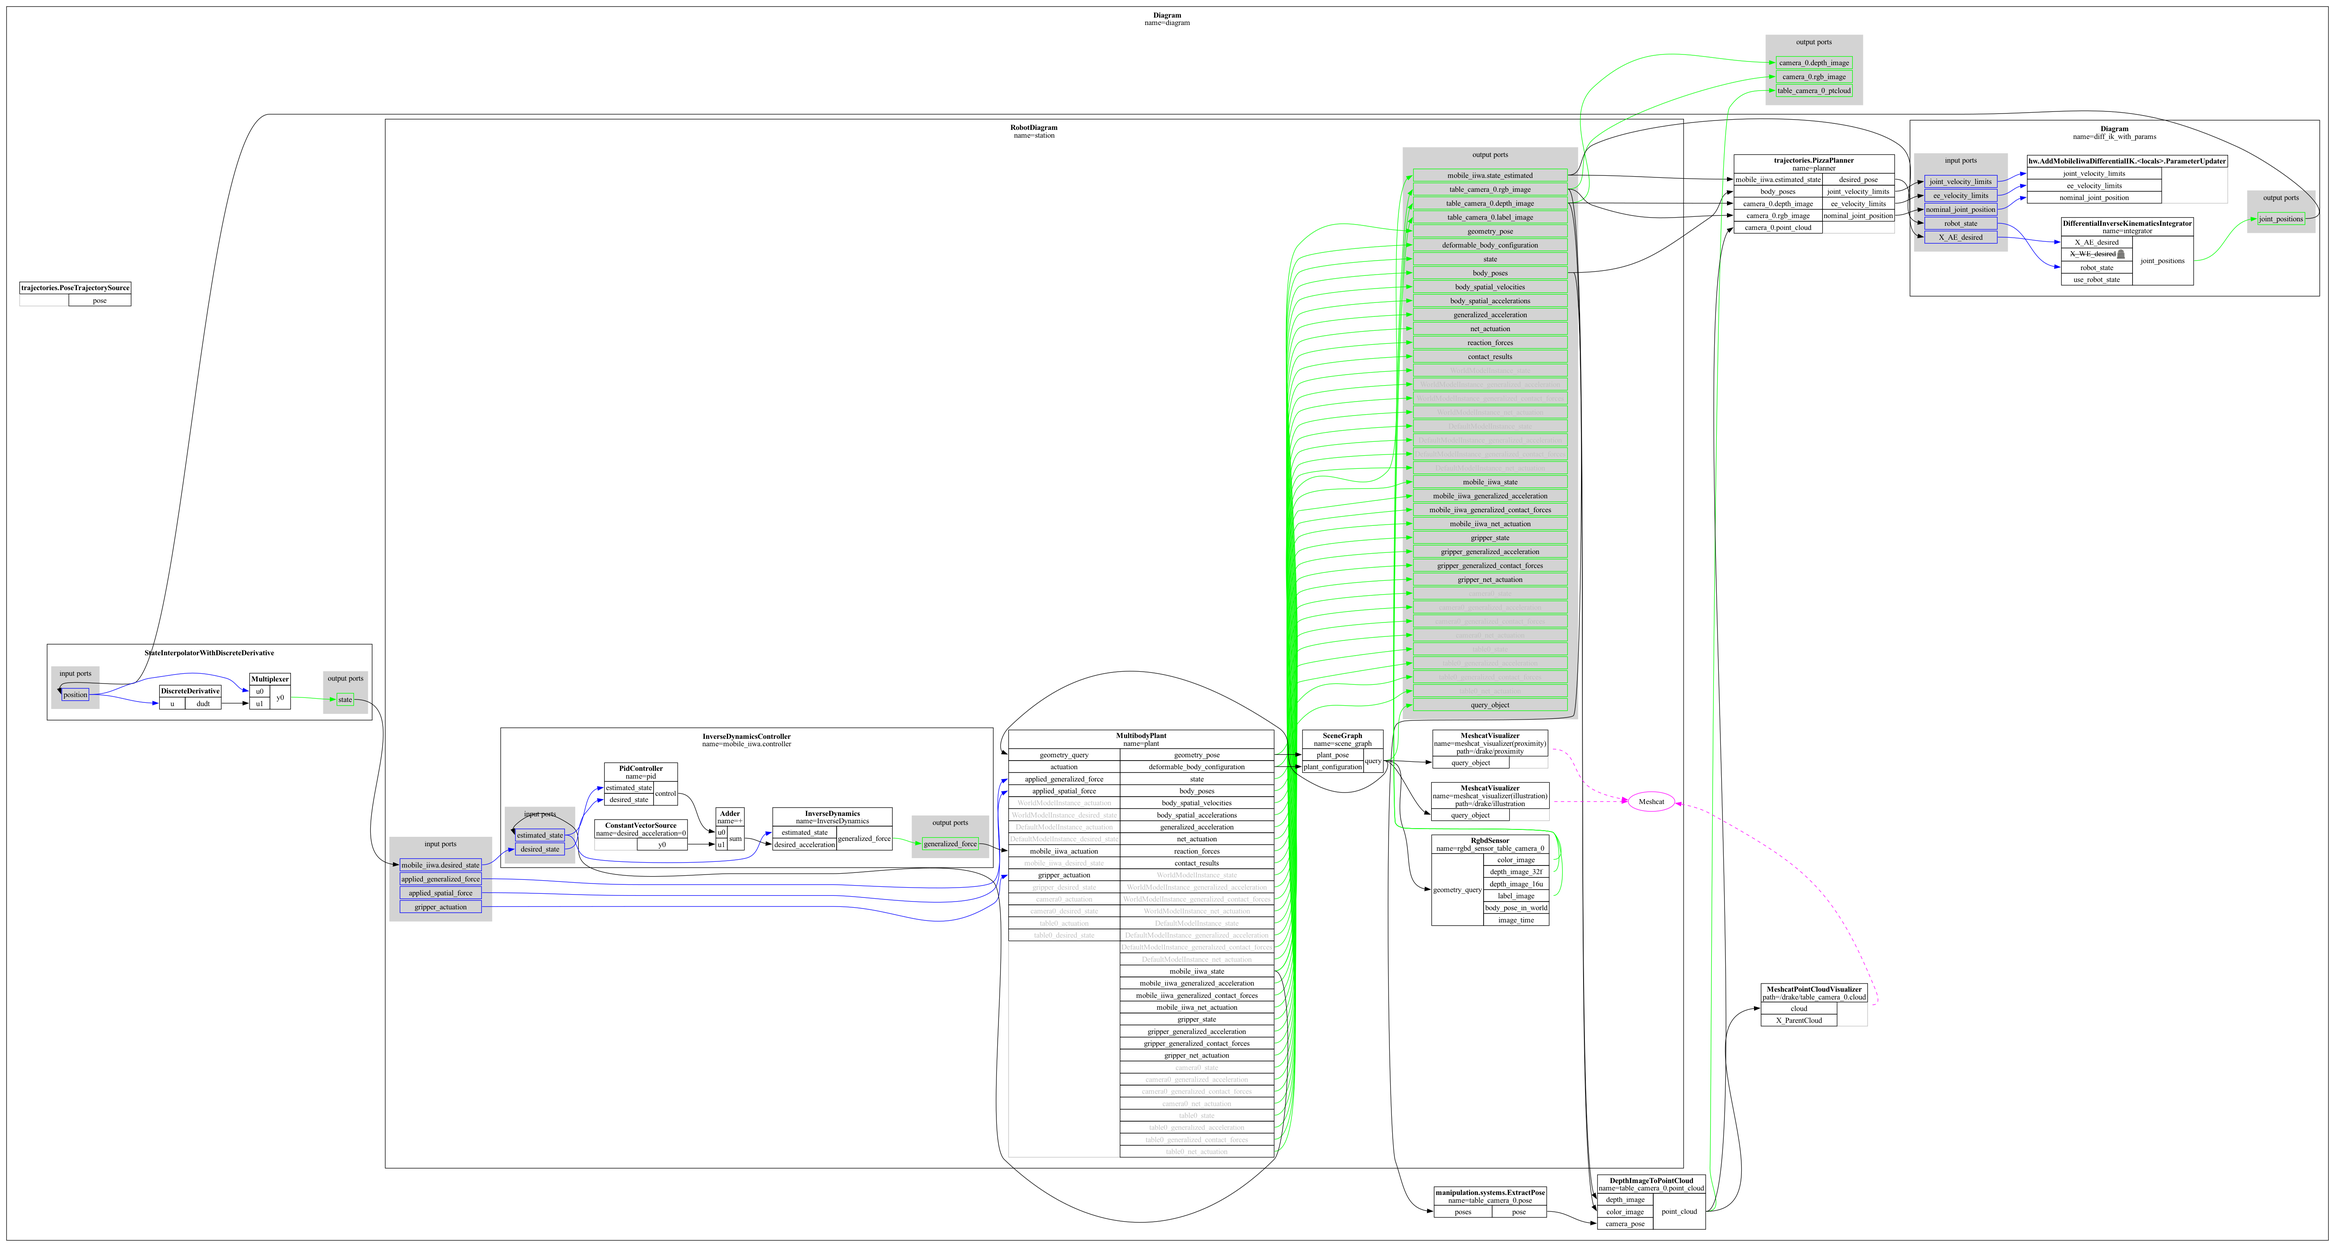
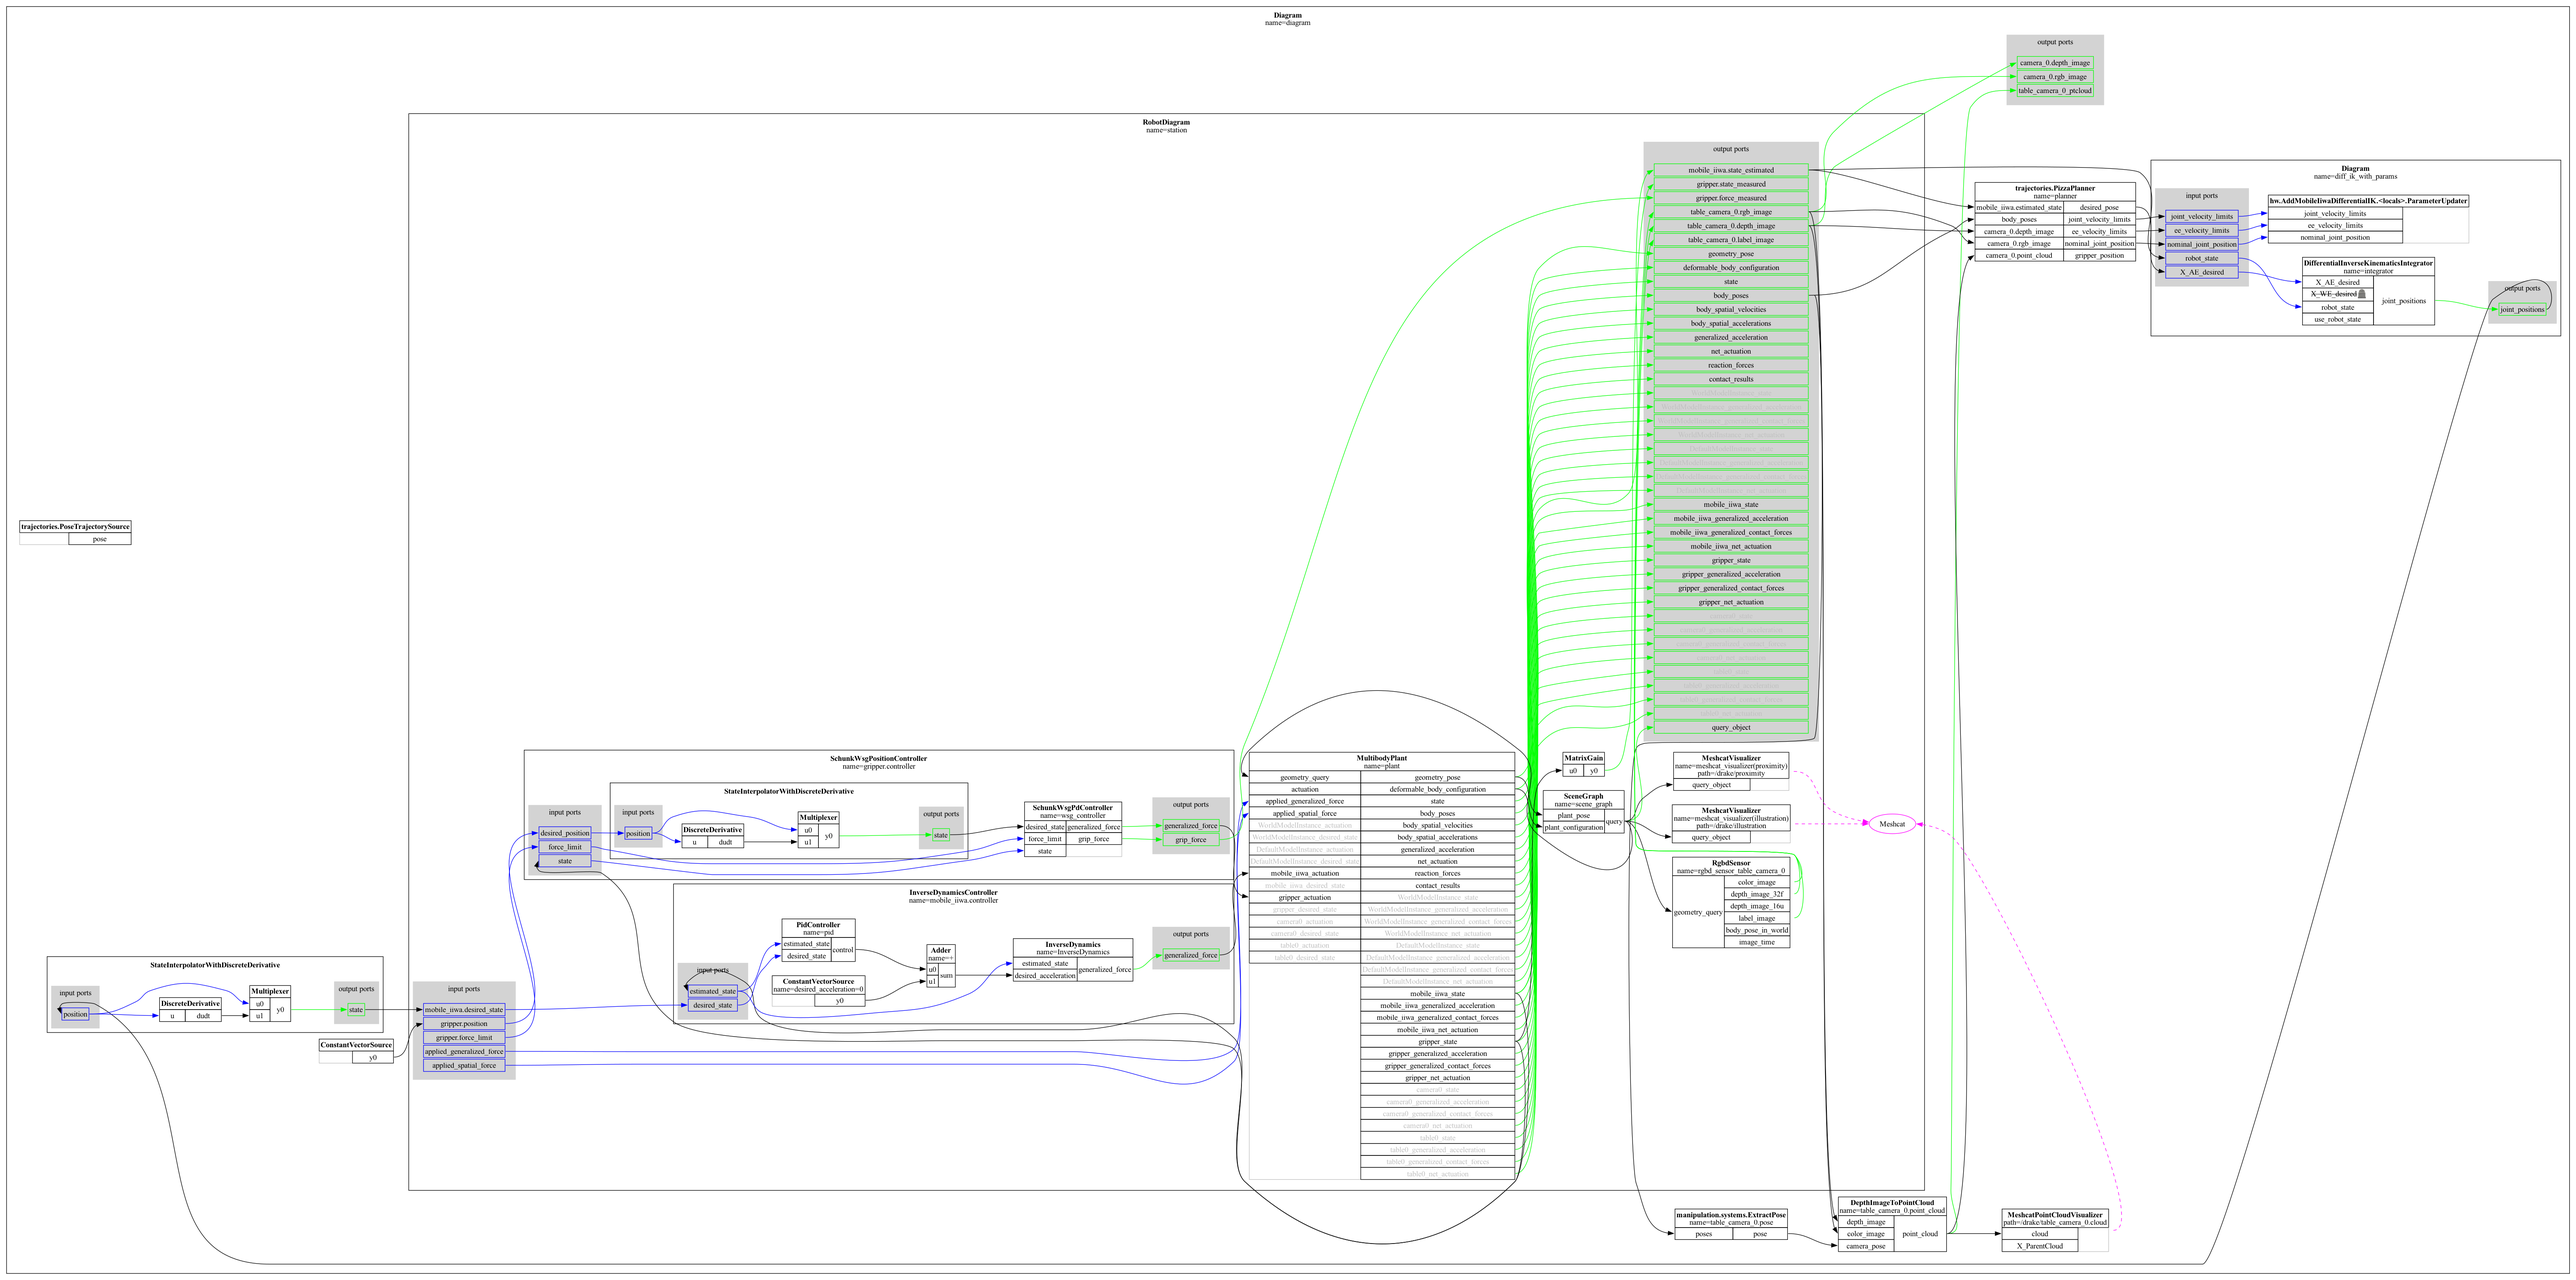
gripper not working but connected

diff --git a/project/trajectories.py b/project/trajectories.py
@@ -154,6 +154,10 @@ class PizzaPlanner(LeafSystem):
         self._nominal_joint_position_idx = int(
             self.DeclareDiscreteState(num_joint_positions)
         )
+        self._gripper_position_idx = int(
+            self.DeclareDiscreteState(1)
+        )
+
         # self._joint_centering_gains_idx = int(
         #     self.DeclareDiscreteState(num_joint_positions)
         # )
@@ -241,6 +245,12 @@ class PizzaPlanner(LeafSystem):
             num_joint_positions,
             self._calc_nominal_joint_position,
         )
+        self.DeclareVectorOutputPort(
+            "gripper_position",
+            1,
+            self._set_gripper_position
+        )
+
         # self.DeclareVectorOutputPort(
         #     "joint_centering_gains",
         #     num_joint_positions,
@@ -261,6 +271,10 @@ class PizzaPlanner(LeafSystem):
     def _set_desired_pose(self, context: Context, output: AbstractValue) -> None:
         desired_pose = context.get_abstract_state(self._desired_pose_idx).get_value()
         output.set_value(desired_pose)
+
+    def _set_gripper_position(self, context: Context, output: BasicVector) -> None:
+        print(f"gripper_posn: {context.get_discrete_state(self._gripper_position_idx).get_value()}")
+        output.set_value(context.get_discrete_state(self._gripper_position_idx).get_value())
 
     def _calc_joint_velocity_limits(self, context: Context, output: BasicVector) -> None:
         output.set_value(context.get_discrete_state(self._joint_velocity_limits_idx).get_value())
@@ -314,6 +328,8 @@ class PizzaPlanner(LeafSystem):
             self._initial_diff_ik_params.get_nominal_joint_position()
         )
 
+        discrete_values.get_mutable_vector(self._gripper_position_idx).set_value([0.107])
+
         # discrete_values.get_mutable_vector(self._joint_centering_gains_idx).set_value(
         #     self._initial_diff_ik_params.get_joint_centering_gain()
         # )
@@ -327,8 +343,6 @@ class PizzaPlanner(LeafSystem):
         # discrete_values.get_mutable_value(self._camera_0_point_cloud_idx).set_value(
         #     self._camera_ptcloud_input_port.Eval(context)
         # )
-
-        print(discrete_values)
         
 
     ###------------ STATE MACHINE LOGIC -----------###
@@ -339,6 +353,10 @@ class PizzaPlanner(LeafSystem):
         )
         mutable_fsm_state = state.get_mutable_abstract_state(self._fsm_state_idx)
         fsm_state_value: PizzaRobotState = context.get_abstract_state(self._fsm_state_idx).get_value()
+
+        def transition_to_state(next_state: PizzaRobotState):
+            print(f"Transitioning to {next_state} FSM state.")
+            mutable_fsm_state.set_value(next_state)
 
         if self._is_finished:
             return
@@ -353,8 +371,7 @@ class PizzaPlanner(LeafSystem):
             joint_vels = self.fix_base_position(context, [0, 0, 1])
             state.get_mutable_discrete_state().set_value(self._joint_velocity_limits_idx, joint_vels)
 
-            print("Transitioning to PLAN_IIWA_PAINTER FSM state.")
-            mutable_fsm_state.set_value(PizzaRobotState.CLOSE_GRIPPER)
+            transition_to_state(PizzaRobotState.FINISHED)
         
         
         # ----------------- PLAN IIWA_PAINTER ----------------- #
@@ -409,9 +426,14 @@ class PizzaPlanner(LeafSystem):
 
         # ----------------- CLOSE GRIPPER ----------------- #
         elif fsm_state_value == PizzaRobotState.CLOSE_GRIPPER:
-            mutable_fsm_state.set_value(PizzaRobotState.FINISHED)
-            print("Transitioning to FINISHED state.")
+            gripper_traj = self._close_gripper_traj(context,start_time_s=current_time)
 
+            gripper_position = gripper_traj.value(current_time)
+            state.get_mutable_discrete_state().get_mutable_vector(self._gripper_position_idx).SetAtIndex(0, gripper_position)
+            
+            if current_time >= gripper_traj.end_time():
+                mutable_fsm_state.set_value(PizzaRobotState.FINISHED)
+                print("Transitioning to FINISHED state.")
         
         # ----------------- EXECUTE PLANNED TRAJECTORY ----------------- #
         elif fsm_state_value == PizzaRobotState.EXECUTE_PLANNED_TRAJECTORY:
@@ -441,7 +463,6 @@ class PizzaPlanner(LeafSystem):
 
         # Get mutable joint velocity limits from discrete state
         joint_velocity_limits = context.get_mutable_discrete_state(self._joint_velocity_limits_idx).get_value()
-        print("joint_velocity_limits: ", joint_velocity_limits)
 
         # Initialize new joint velocity limits
         new_joint_velocity_limits = np.copy(joint_velocity_limits)
@@ -457,8 +478,6 @@ class PizzaPlanner(LeafSystem):
                 new_joint_velocity_limits[i] = init_vels[i]
                 new_joint_velocity_limits[i + self._num_joint_positions] = init_vels[i + self._num_joint_positions]
 
-
-        print(f"{new_joint_velocity_limits=}")
 
         return new_joint_velocity_limits
     
@@ -553,3 +572,11 @@ class PizzaPlanner(LeafSystem):
             trajectory=PiecewisePose.MakeLinear(times, key_frame_poses),
             start_time_s=start_time_s
         )
+
+    def _close_gripper_traj(self, context: Context, start_time_s: int) -> PiecewisePolynomial:
+        # Create gripper trajectory.
+        gripper_t_lst = start_time_s + np.array([0.5, 1.0, 2.0])
+        gripper_knots = np.array([0.02, 0.02, 0.0]).reshape(1,3)
+        g_traj = PiecewisePolynomial.FirstOrderHold(gripper_t_lst, gripper_knots)
+
+        return g_traj

diff --git a/project/hw.py b/project/hw.py
@@ -403,6 +403,18 @@ def init_builder(meshcat, scenario, traj=PiecewisePose()):
         state_machine.GetInputPort("camera_0.point_cloud")
     )
 
+    wsg_position = builder.AddSystem(ConstantVectorSource([0.1]))
+    builder.Connect(
+        wsg_position.get_output_port(),
+        station.GetInputPort("gripper.position")
+    )
+
+    # # gripper ports
+    # builder.Connect(
+    #     state_machine.GetOutputPort("gripper_position"),
+    #     station.GetInputPort("gripper.position")
+    # )
+
 
     # builder.Connect(
     #     state_machine.GetOutputPort("joint_centering_gains"),
